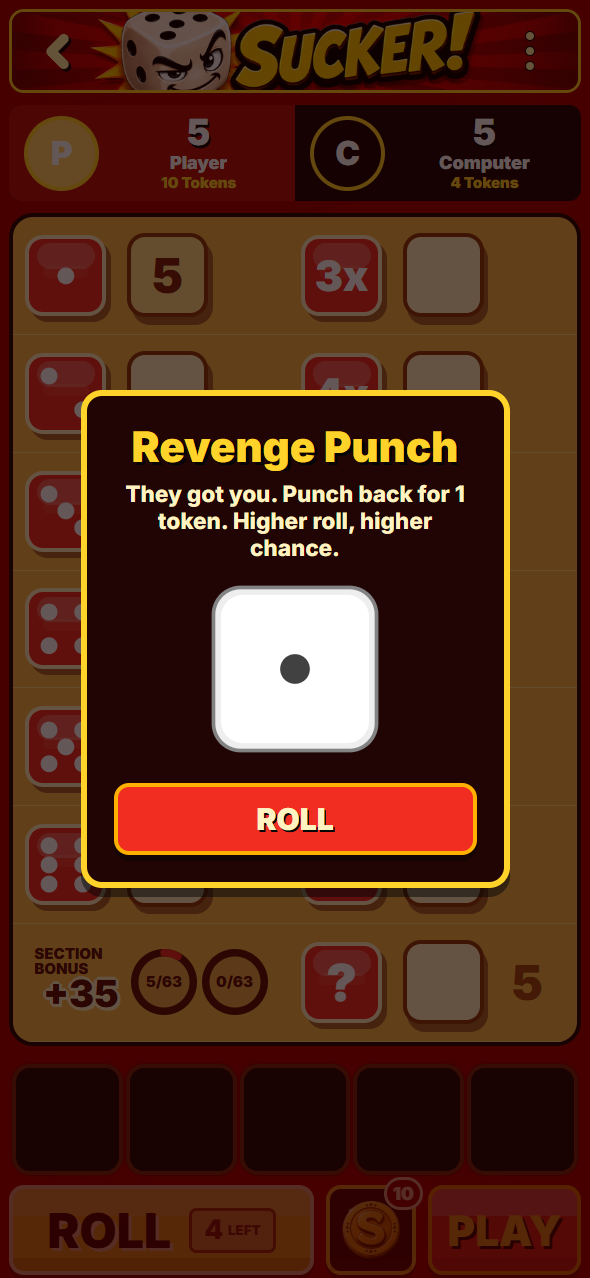
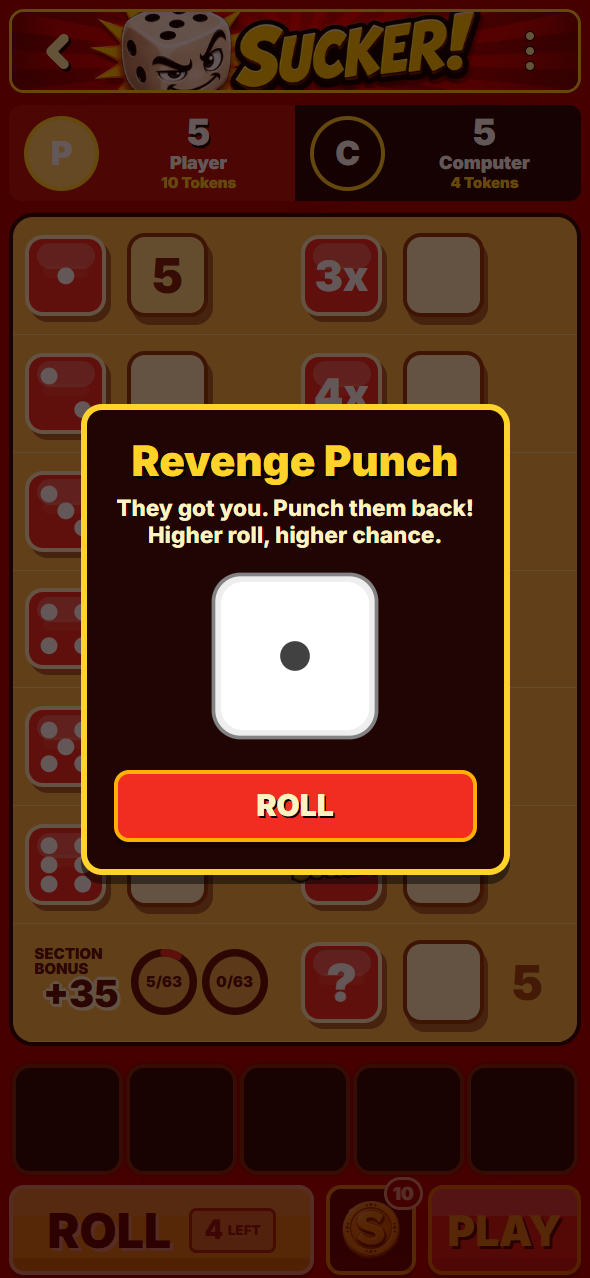
Remove repeated token costs from punch dialogs

Changed region(s): [[0.122, 0.3052, 0.8847, 0.7019]]

diff --git a/App.tsx b/App.tsx
@@ -236,7 +236,6 @@ type LocalPlayerProfile = {
   displayName: string;
 };
 type SuckerPunchDialogState = {
-  tokenCost: number;
   kind: ReturnType<typeof getSuckerPunchKind>;
   outcome?: SuckerPunchOutcome;
   phase: 'ready' | 'rolling' | 'rolled' | 'throwing' | 'result';
@@ -1144,10 +1143,6 @@ export function LocalGameScreen({
     initialLocalSession?.preparedPunch
       ? {
           kind: getSuckerPunchKind(
-            initialLocalSession.game,
-            initialLocalSession.game.players[initialLocalSession.game.currentPlayerIndex].id,
-          ),
-          tokenCost: getSuckerPunchCost(
             initialLocalSession.game,
             initialLocalSession.game.players[initialLocalSession.game.currentPlayerIndex].id,
           ),
@@ -2760,7 +2755,6 @@ export function LocalGameScreen({
       suckerPunchResultCompletion.current = null;
       setSuckerPunchDialog({
         kind: suckerPunchKind,
-        tokenCost: suckerPunchCost,
         phase: 'ready',
         scope: 'local',
         targetTurnId: pendingTurn.id,
@@ -2780,7 +2774,6 @@ export function LocalGameScreen({
     suckerPunchResultCompletion.current = null;
     setSuckerPunchDialog({
       kind: suckerPunchKind,
-      tokenCost: suckerPunchCost,
       phase: 'ready',
       scope: 'remote',
       targetTurnId: remoteLastTurnId,
@@ -4089,7 +4082,6 @@ export function LocalGameScreen({
           {suckerPunchDialog && (
             <SuckerPunchChanceDialog
               face={suckerPunchChanceFace}
-              tokenCost={suckerPunchDialog.tokenCost}
               kind={suckerPunchDialog.kind}
               onDismissResult={handleDismissSuckerPunchResult}
               onRoll={() => void handleRollSuckerPunchChance()}
@@ -4869,7 +4861,6 @@ function TokenMenuOption({
 
 function SuckerPunchChanceDialog({
   face,
-  tokenCost,
   kind,
   onDismissResult,
   onRoll,
@@ -4879,7 +4870,6 @@ function SuckerPunchChanceDialog({
   rollProgress,
 }: {
   face: DieValue;
-  tokenCost: number;
   kind: SuckerPunchDialogState['kind'];
   onDismissResult: () => void;
   onRoll: () => void;
@@ -4959,9 +4949,9 @@ function SuckerPunchChanceDialog({
             style={[styles.suckerPunchChanceHint, layout.styles.suckerPunchChanceHint]}
           >
             {kind === 'counter'
-              ? `They missed. Punch back for ${tokenCost} token${tokenCost === 1 ? '' : 's'}. Higher roll, higher chance.`
+              ? 'They missed. Punch them back! Higher roll, higher chance.'
               : kind === 'revenge'
-                ? `They got you. Punch back for ${tokenCost} token${tokenCost === 1 ? '' : 's'}. Higher roll, higher chance.`
+                ? 'They got you. Punch them back! Higher roll, higher chance.'
                 : 'Higher roll, higher chance.'}
           </Text>
         )}

diff --git a/e2e/multiplayer-web.spec.ts b/e2e/multiplayer-web.spec.ts
@@ -164,7 +164,7 @@ for (const cost of [2, 1]) {
     await counter.click();
     const dialog = page.getByTestId('sucker-punch-chance-dialog');
     await expect(dialog).toContainText('Counterpunch');
-    await expect(dialog).toContainText(`${cost} token`);
+    await expect(dialog).toContainText('They missed. Punch them back! Higher roll, higher chance.');
     await expect(page.getByTestId('game-screen')).toHaveScreenshot(`counterpunch-${cost}-dialog.png`);
     await page.getByTestId('sucker-punch-chance-roll-button').click();
     await expect(dialog).toContainText(/Rolled [1-6]/);
@@ -217,7 +217,7 @@ for (const hits of [1, 2]) {
     await option.click();
     const dialog = page.getByTestId('sucker-punch-chance-dialog');
     await expect(dialog).toContainText('Revenge Punch');
-    await expect(dialog).toContainText(`They got you. Punch back for ${cost} token`);
+    await expect(dialog).toContainText('They got you. Punch them back! Higher roll, higher chance.');
     await page.screenshot({ path: test.info().outputPath(`revenge-${cost}-dialog.png`) });
     await page.getByTestId('sucker-punch-chance-roll-button').click();
     await expect(dialog).toContainText(/Rolled [1-6]/);

diff --git a/docs/review-evidence/revenge-punch/README.md b/docs/review-evidence/revenge-punch/README.md
@@ -2,7 +2,7 @@
 
 Each landed punch received reduces the victim's next punch price from 3 to 2 to 1 token. The banked discount survives turns and reloads until a punch is thrown. A counterpunch uses the cheaper price and never combines discounts.
 
-Checked the local app in the collaborative browser at 393 × 852. After two hits, the menu and chance dialog show a 1-token Revenge Punch. The menu says “They got you. Punch them back! Try to force a replay.” Players discover the discount through the name and displayed price. Preparing and reloading preserves the discount; throwing a missed punch spends one token, clears revenge, and returns the menu to the regular 3-token price. The document remains 852 pixels tall with no vertical scrolling.
+Checked the local app in the collaborative browser at 393 × 852. After two hits, the menu shows a 1-token Revenge Punch and says “They got you. Punch them back! Try to force a replay.” Players discover the discount through the name and displayed price. The chance dialog says “They got you. Punch them back! Higher roll, higher chance.” without repeating the cost. Preparing and reloading preserves the discount; throwing a missed punch spends one token, clears revenge, and returns the menu to the regular 3-token price. The document remains 852 pixels tall with no vertical scrolling.
 
 | Token menu after two hits                    | Chance dialog                                      |
 | -------------------------------------------- | -------------------------------------------------- |
